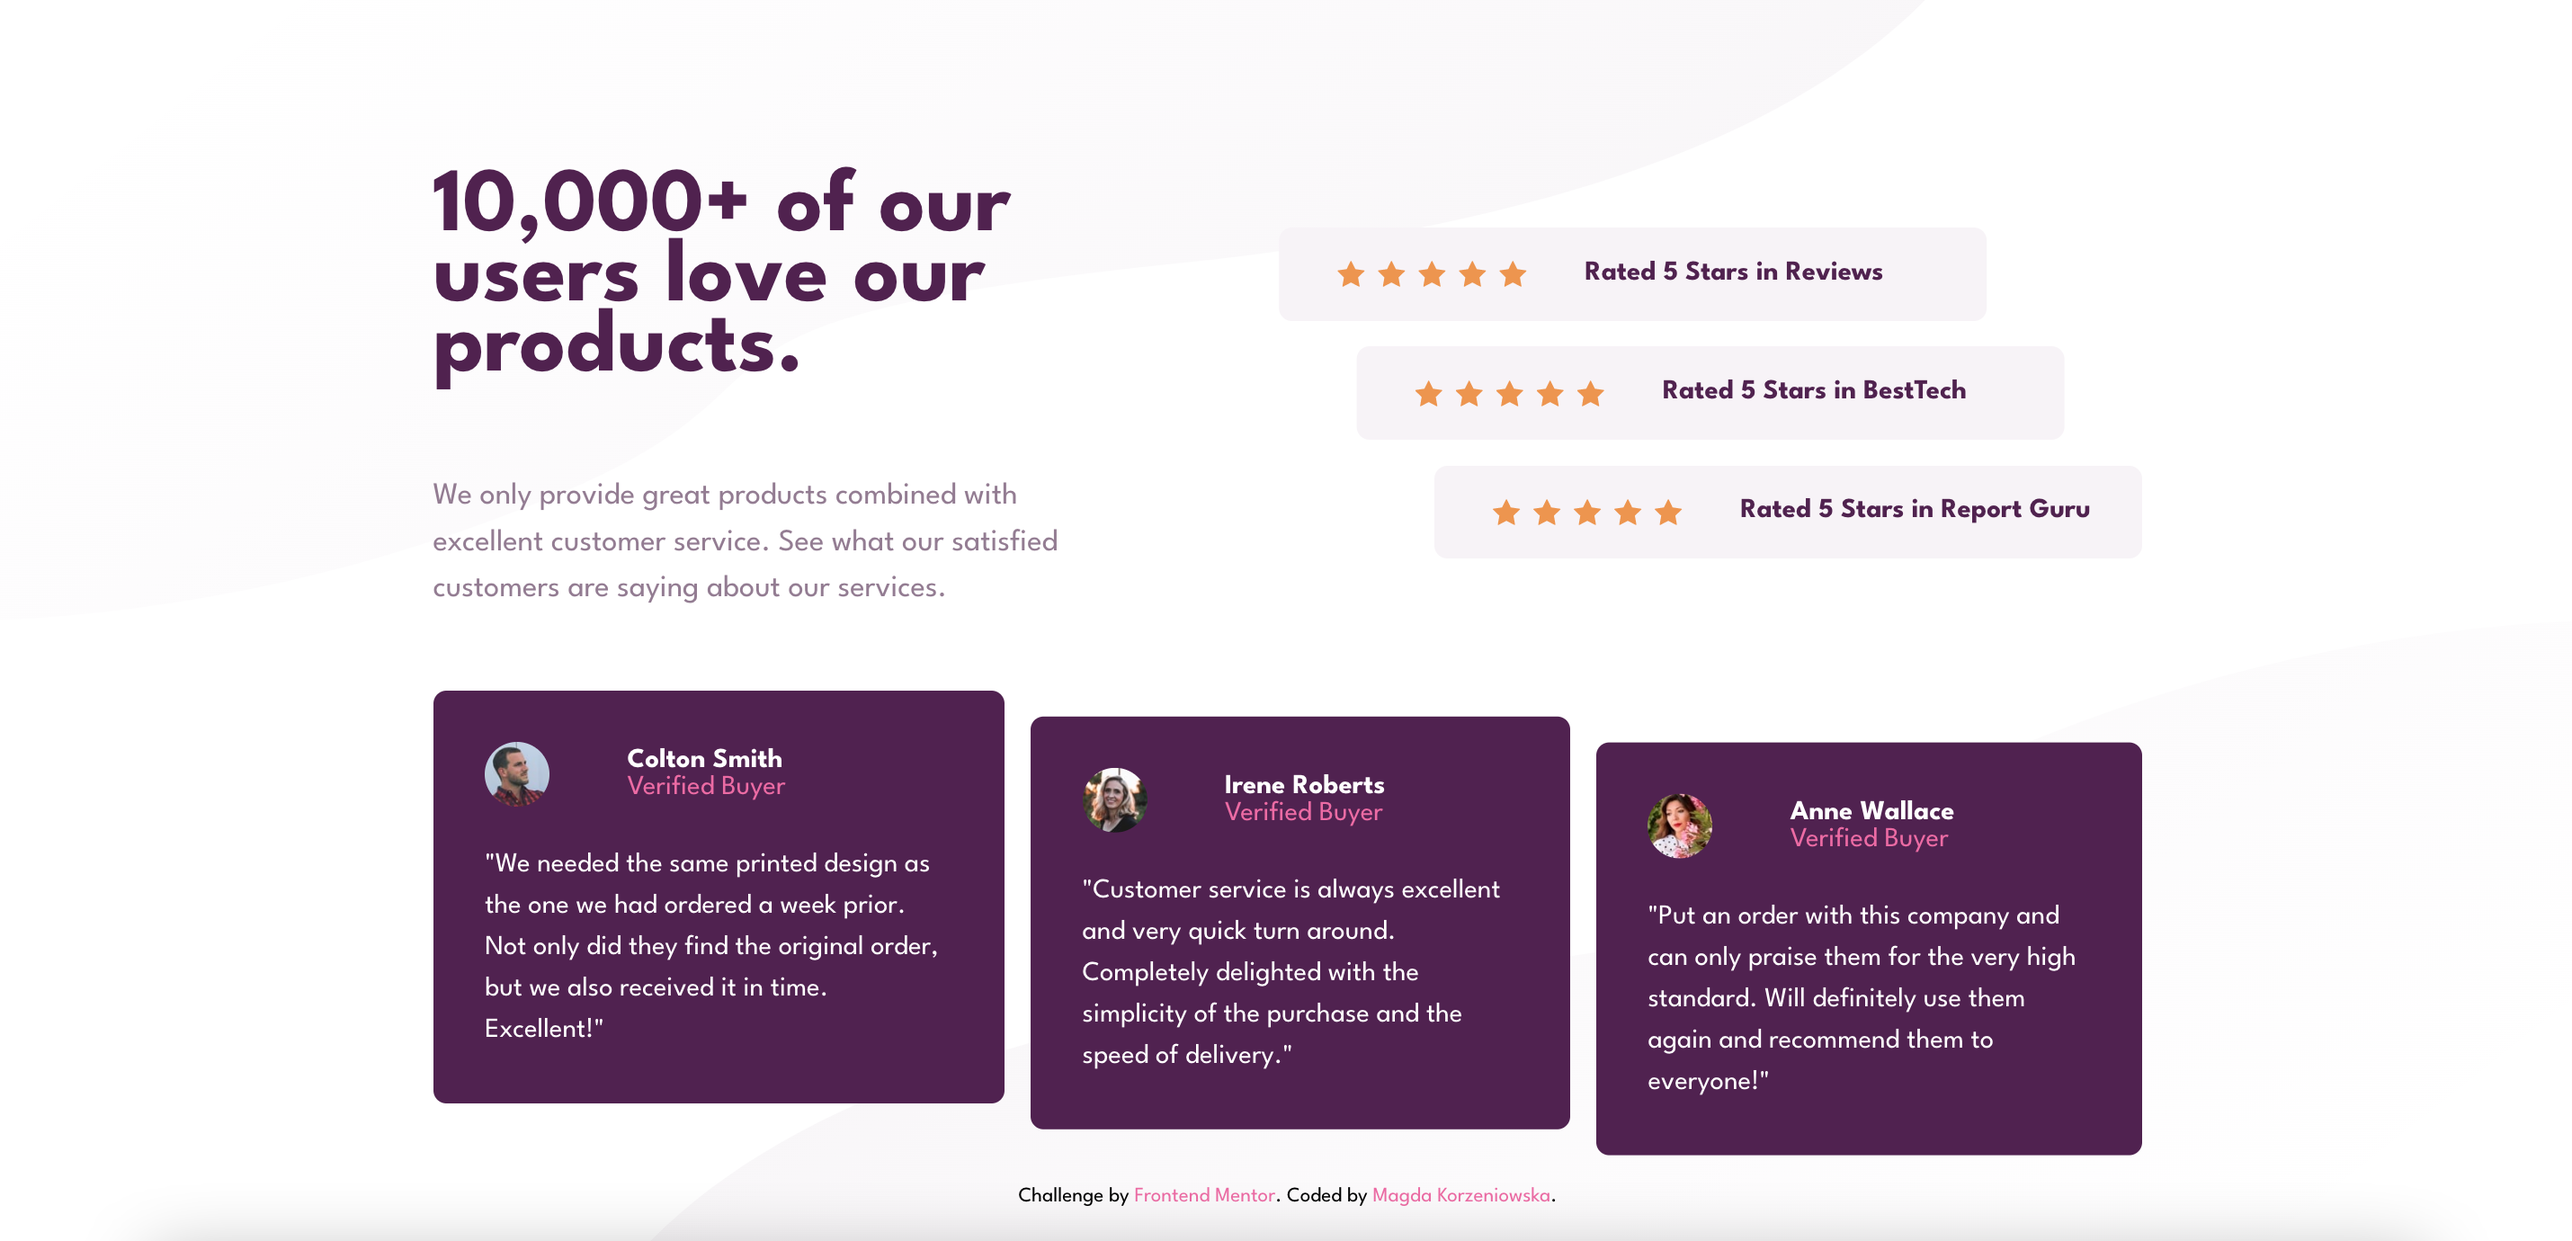
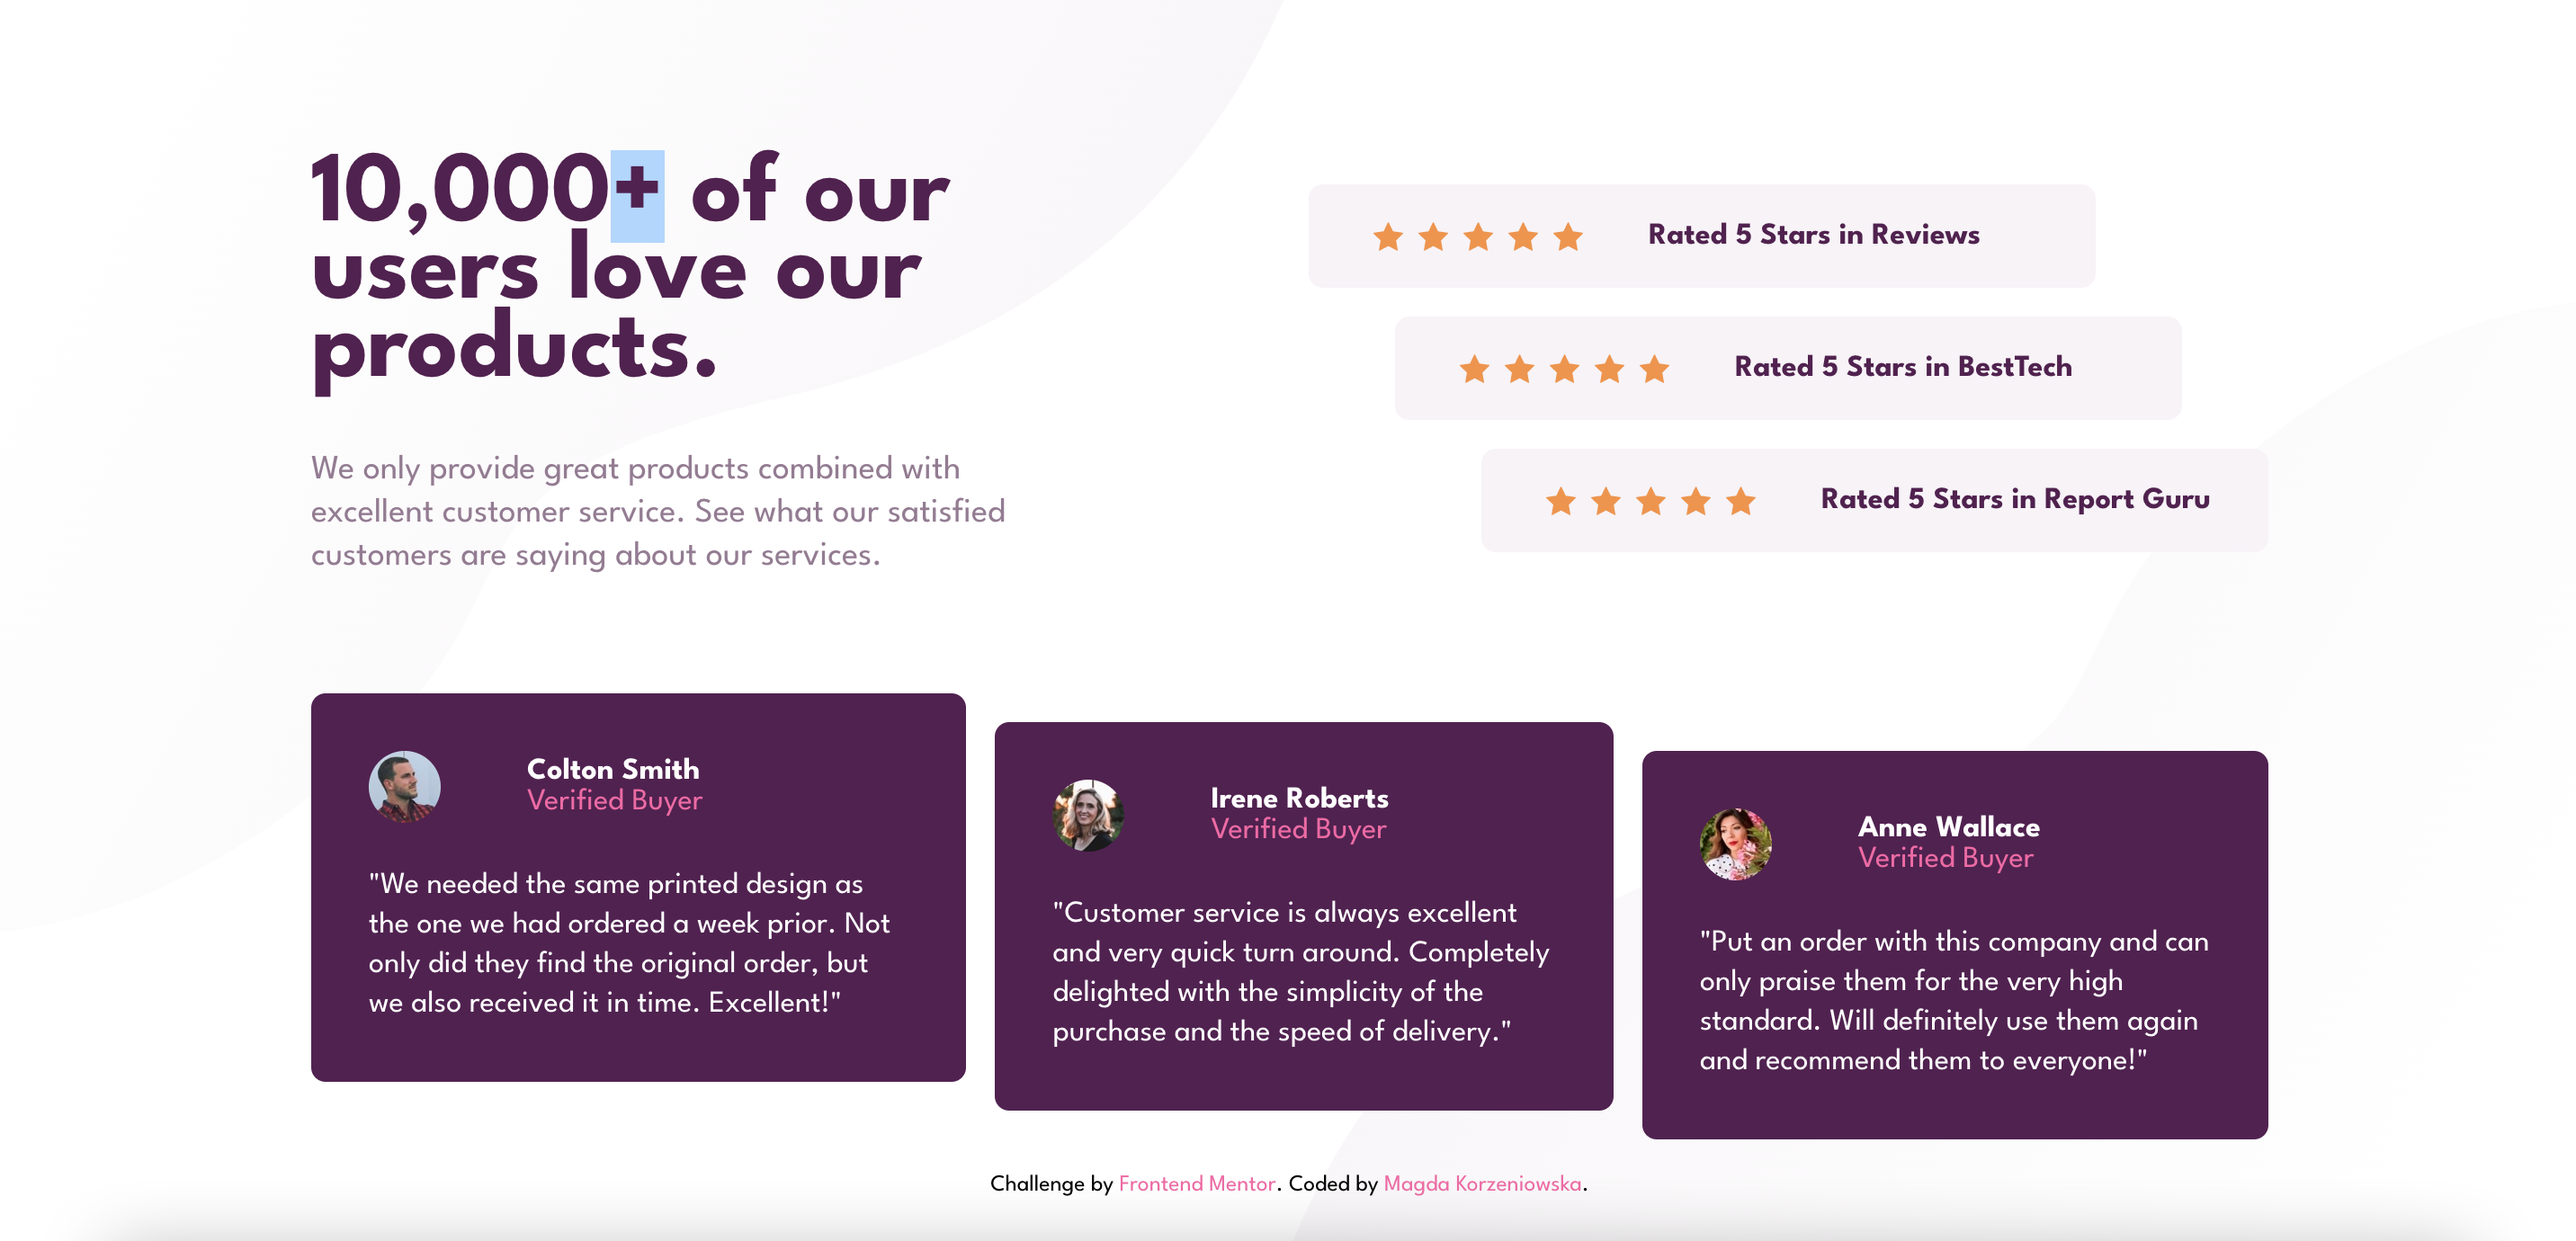
Add minor design fixes

diff --git a/public/css/main.css b/public/css/main.css
@@ -110,21 +110,22 @@ ol[class] {
 body {
   font-family: var(--ff-base);
   font-size: var(--fs-400);
-  padding-top: 5.125rem;
+  padding-top: 4rem;
   text-align: center;
   background-image: url(/images/bg-pattern-top-desktop.svg), url(/images/bg-pattern-bottom-desktop.svg);
   background-repeat: no-repeat;
   background-position: top left, bottom right;
-  background-size: 75% 50%;
+  background-size: 50% 75%;
 }
 
 h1 {
   font-size: var(--fs-900);
   color: var(--clr-primary-700);
   line-height: 2.7rem;
-  margin-bottom: 1em;
+  margin-bottom: 2rem;
   max-width: 12ch;
   font-weight: var(--fw-bold);
+  letter-spacing: -0.125px;
 }
 @media (max-width: 55em) {
   h1 {
@@ -136,11 +137,12 @@ h1 {
 .subtitle {
   font-size: var(--fs-500);
   color: var(--clr-neutral-400);
+  line-height: 1.5rem;
 }
 
 main {
   display: grid;
-  gap: 3rem 1rem;
+  gap: 4rem 1rem;
   margin-bottom: 1rem;
 }
 
@@ -174,7 +176,7 @@ main {
 }
 
 .container {
-  max-width: 70rem;
+  max-width: 72rem;
   padding: 0 2rem;
   margin: 0 auto;
   padding: 2rem;
@@ -277,4 +279,5 @@ main {
 }
 .quotes .quote {
   margin-top: 1.5rem;
+  line-height: 1.375rem;
 }

diff --git a/src/scss/base/_global.scss b/src/scss/base/_global.scss
@@ -1,22 +1,23 @@
 body {
   font-family: var(--ff-base);
   font-size: var(--fs-400);
-  padding-top: 5.125rem;
+  padding-top: 4rem;
   text-align: center;
   background-image: url(/images/bg-pattern-top-desktop.svg),
     url(/images/bg-pattern-bottom-desktop.svg);
   background-repeat: no-repeat;
   background-position: top left, bottom right;
-  background-size: 75% 50%;
+  background-size: 50% 75%;
 }
 
 h1 {
   font-size: var(--fs-900);
   color: var(--clr-primary-700);
   line-height: 2.7rem;
-  margin-bottom: 1em;
+  margin-bottom: 2rem;
   max-width: 12ch;
   font-weight: var(--fw-bold);
+  letter-spacing: -0.125px;
   @media (max-width: 55em) {
     margin-left: auto;
     margin-right: auto;
@@ -26,12 +27,13 @@ h1 {
 .subtitle {
   font-size: var(--fs-500);
   color: var(--clr-neutral-400);
+  line-height: 1.5rem;
 }
 
 // layout
 main {
   display: grid;
-  gap: 3rem 1rem;
+  gap: 4rem 1rem;
   margin-bottom: 1rem;
 }
 

diff --git a/src/scss/base/_utilities.scss b/src/scss/base/_utilities.scss
@@ -1,5 +1,5 @@
 .container {
-  max-width: 70rem;
+  max-width: 72rem;
   padding: 0 2rem;
   margin: 0 auto;
   padding: 2rem;

diff --git a/src/scss/components/_quotes.scss b/src/scss/components/_quotes.scss
@@ -34,5 +34,6 @@
 
   .quote {
     margin-top: 1.5rem;
+    line-height: 1.375rem;
   }
 }

diff --git a/README.md b/README.md
@@ -8,7 +8,8 @@ This is a solution to the [Social Proof Section challenge on Frontend Mentor](ht
 
 - [Overview](#overview)
   - [Screenshot](#screenshot)
-  - [Built with](#built-with)
+- [Installation](#installation)
+- [Built with](#built-with)
 
 ## Overview
 
@@ -16,7 +17,35 @@ This is a solution to the [Social Proof Section challenge on Frontend Mentor](ht
 
 ![](./src/images/screenshot-desktop.png)
 
-### Built with
+## Installation
+
+1. Start terminal and clone repository using:
+
+   ```bash
+   git clone https://github.com/magda-korzeniowska/social-proof-section-frontendmentor.git
+   ```
+
+2. Install all dependencies => go the main directory of the react-challenge repository:
+
+   ```bash
+   cd social-proof-section-frontendmentor
+   ```
+
+   and run:
+
+   ```bash
+   npm install
+   ```
+
+3. Run application:
+
+   ```bash
+   npm start
+   ```
+
+4. After running npm start, the website should open automatically in your browser. If it doesn't, open [http://localhost:3000](http://localhost:3000) in your browser.
+
+## Built with
 
 - Semantic HTML5 markup
 - CSS custom properties
